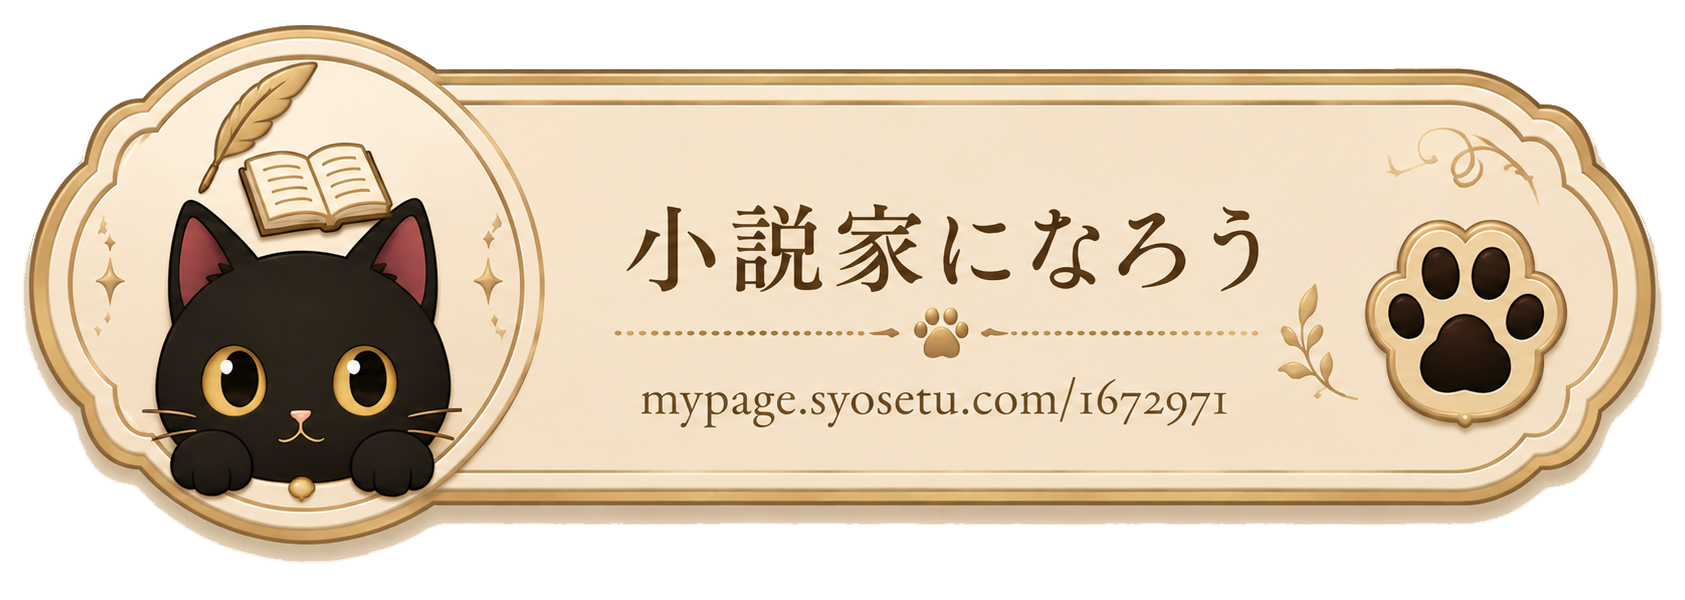
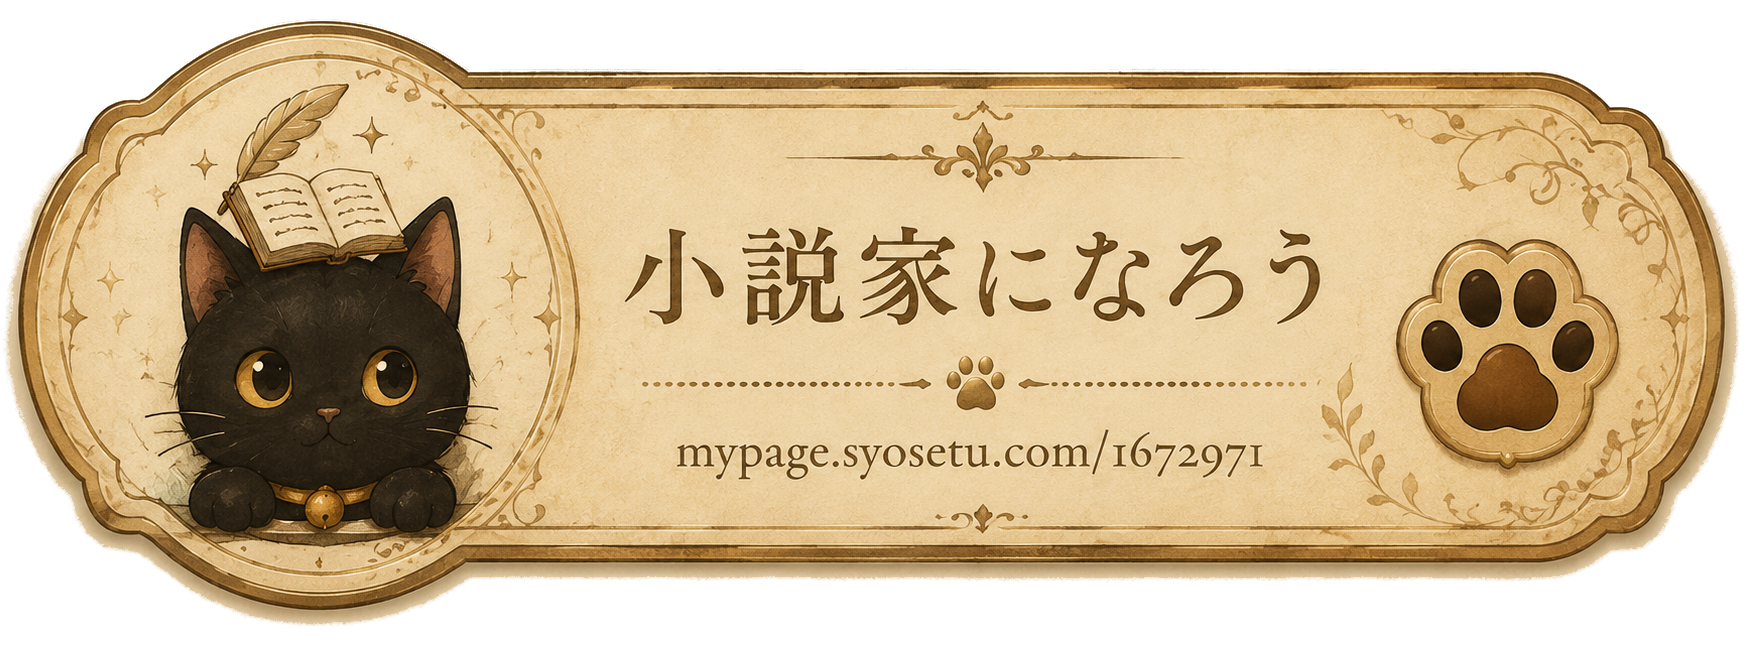
Replace link buttons with antique versions

diff --git a/index.html b/index.html
@@ -331,11 +331,11 @@
 
             <div class="flex flex-col gap-5 md:gap-6 max-w-2xl mx-auto">
                 <a href="https://twitter.com/yaseieneko" target="_blank" rel="noopener noreferrer" class="link-image-btn" aria-label="X Twitterを開く">
-                    <img src="images/x_twitter_cat_button.png" alt="X (Twitter) twitter.com/yaseieneko" width="1690" height="590" loading="lazy">
+                    <img src="images/x_twitter_cat_button.png" alt="X (Twitter) twitter.com/yaseieneko" width="1750" height="678" loading="lazy">
                 </a>
 
                 <a href="https://mypage.syosetu.com/1672971/" target="_blank" rel="noopener noreferrer" class="link-image-btn" aria-label="小説家になろうを開く">
-                    <img src="images/syosetu_cat_button.png" alt="小説家になろう mypage.syosetu.com/1672971" width="1685" height="600" loading="lazy">
+                    <img src="images/syosetu_cat_button.png" alt="小説家になろう mypage.syosetu.com/1672971" width="1750" height="648" loading="lazy">
                 </a>
             </div>
         </section>
